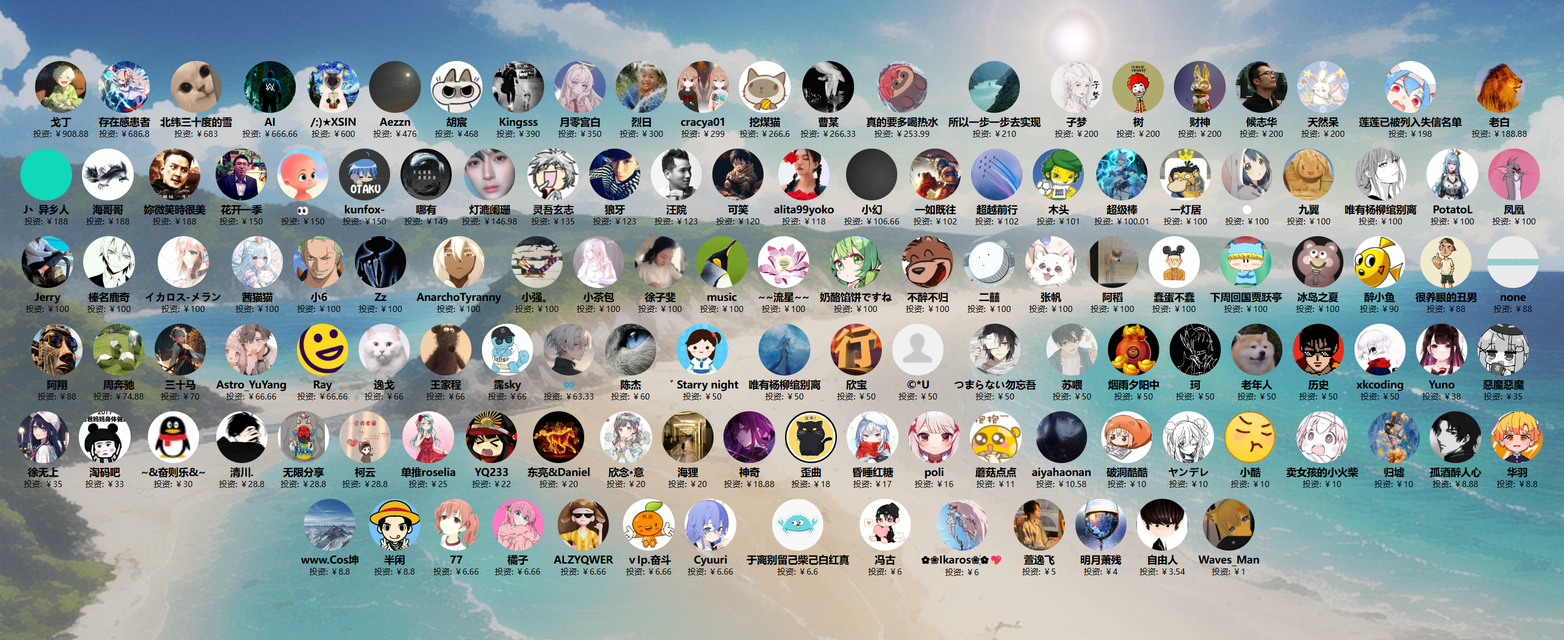
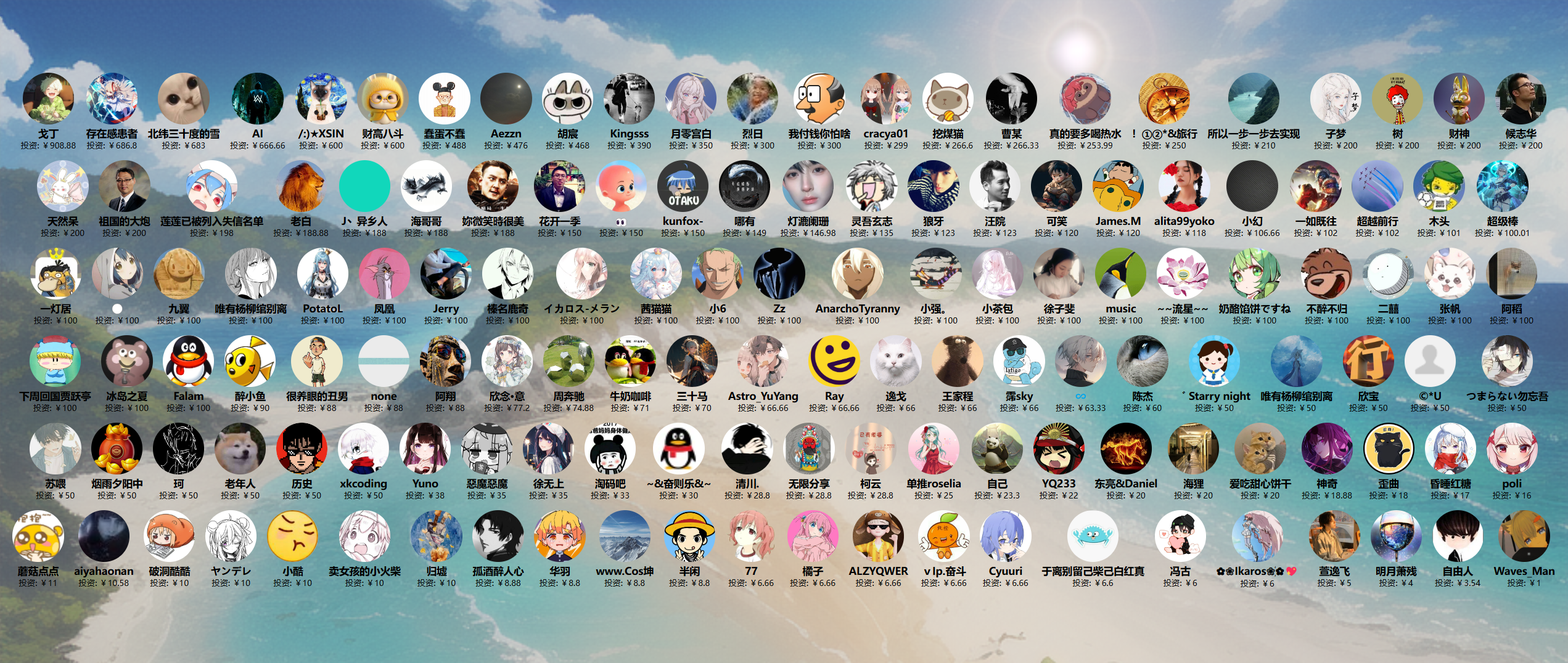
更新：投资人

diff --git a/docs/投资人/index.html b/docs/投资人/index.html
@@ -364,7 +364,7 @@
         {
             name: "蠢蛋不蠢",
             avatar: "https://images.cnblogs.com/cnblogs_com/ikaros-521/2328032/o_240629124609_QQ%E5%9B%BE%E7%89%8720240629204502.jpg",
-            amount: "100"
+            amount: "488"
         },
         {
             name: "很养眼的丑男",
@@ -539,7 +539,7 @@
         {
             name: "欣念·意",
             avatar: "https://images.cnblogs.com/cnblogs_com/ikaros-521/2328032/o_230723115608_QQ%E5%9B%BE%E7%89%8720230723195602.png",
-            amount: "20"
+            amount: "77.2"
         },
         {
             name: "海狸",
@@ -700,6 +700,51 @@
             name: "冰岛之夏",
             avatar: "https://images.cnblogs.com/cnblogs_com/ikaros-521/2328032/o_240713111820_QQ%E5%9B%BE%E7%89%8720240713191803.jpg",
             amount: "100"
+        },
+        {
+            name: "祖国的大炮",
+            avatar: "https://images.cnblogs.com/cnblogs_com/ikaros-521/2328032/o_240923161523_AgAABTM-uTiqU_238KRMi7WFgwbhTJs8.png",
+            amount: "200"
+        },
+        {
+            name: "James.M",
+            avatar: "https://images.cnblogs.com/cnblogs_com/ikaros-521/2328032/o_240923161622_AgAABTM-uTg8-Jgod2pDfpln_dqFz18R.jpeg",
+            amount: "120"
+        },
+        {
+            name: "Falam",
+            avatar: "https://images.cnblogs.com/cnblogs_com/ikaros-521/2328032/o_240923161734_AgAABTM-uTg-SRH3eydO5a4NvvyB_JPN.png",
+            amount: "100"
+        },
+        {
+            name: "我付钱你怕啥",
+            avatar: "https://images.cnblogs.com/cnblogs_com/ikaros-521/2328032/o_240923161847_AgAABTM-uThqbSKwdiRNY6ridT6GBmyf.png",
+            amount: "300"
+        },
+        {
+            name: "财高八斗",
+            avatar: "https://images.cnblogs.com/cnblogs_com/ikaros-521/2328032/o_240923161958_AgAABTM-uTgfzkLenZxD1rsXy6d2QS3r.png",
+            amount: "600"
+        },
+        {
+            name: "牛奶咖啡",
+            avatar: "https://images.cnblogs.com/cnblogs_com/ikaros-521/2328032/o_240923162047_AgAABTM-uThsvphz3P5DuaTnHPvJj95U.png",
+            amount: "71"
+        },
+        {
+            name: "！①②*&旅行",
+            avatar: "https://images.cnblogs.com/cnblogs_com/ikaros-521/2328032/o_240923162147_AgAABTM-uTi6ZqMZKzlJb6AC68XBTUav.png",
+            amount: "250"
+        },
+        {
+            name: "自己",
+            avatar: "https://images.cnblogs.com/cnblogs_com/ikaros-521/2328032/o_240923162255_AgAABTM-uTgVi2miMfRMB6r7mdJEPCId.jpeg",
+            amount: "23.3"
+        },
+        {
+            name: "爱吃甜心饼干",
+            avatar: "https://images.cnblogs.com/cnblogs_com/ikaros-521/2328032/o_240923162348_AgAABTM-uTjBWwgCWF5KY6Vk-bR4X_e8.png",
+            amount: "20"
         },
     ];
 

diff --git a/webui.py b/webui.py
@@ -332,12 +332,12 @@ def goto_func_page():
                     logger.error(f'账号过期时间：{resp_json["data"]["expiration_ts"]}，已过期：{remainder}秒，请联系管理员续费')
                     stop_programs()
                     return False
-            elif response.status_code == 401:
-                ui.notify(position="top", type="negative", message=f"账号已到期，请联系管理员续费")
-                logger.error(f"账号已到期，请联系管理员续费")
-                stop_programs()
+            # elif response.status_code == 401:
+            #     ui.notify(position="top", type="negative", message=f"账号已到期，请联系管理员续费")
+            #     logger.error(f"账号已到期，请联系管理员续费")
+            #     stop_programs()
 
-                return False
+            #     return False
             else:
                 logger.error(f"自检异常！")
                 return False
